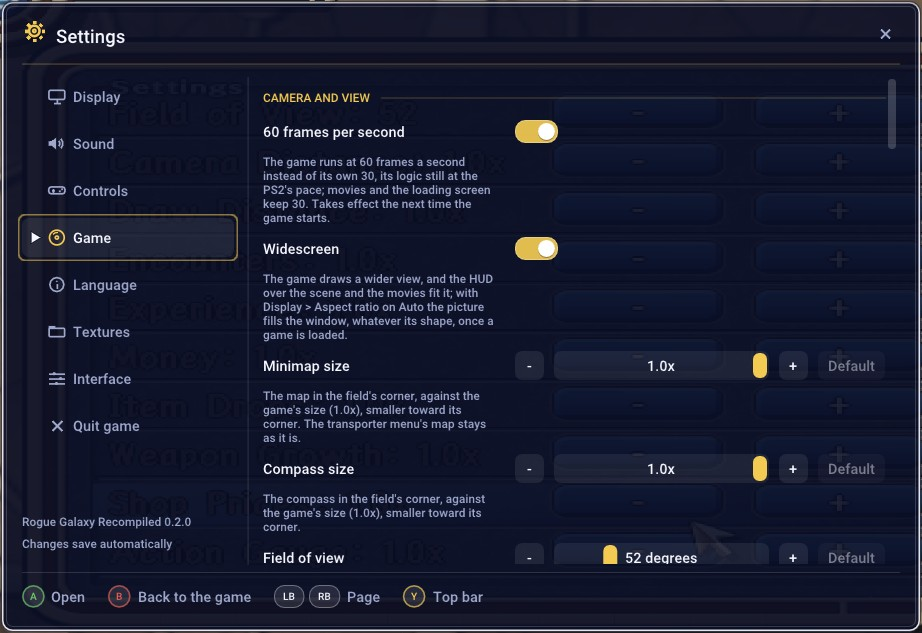
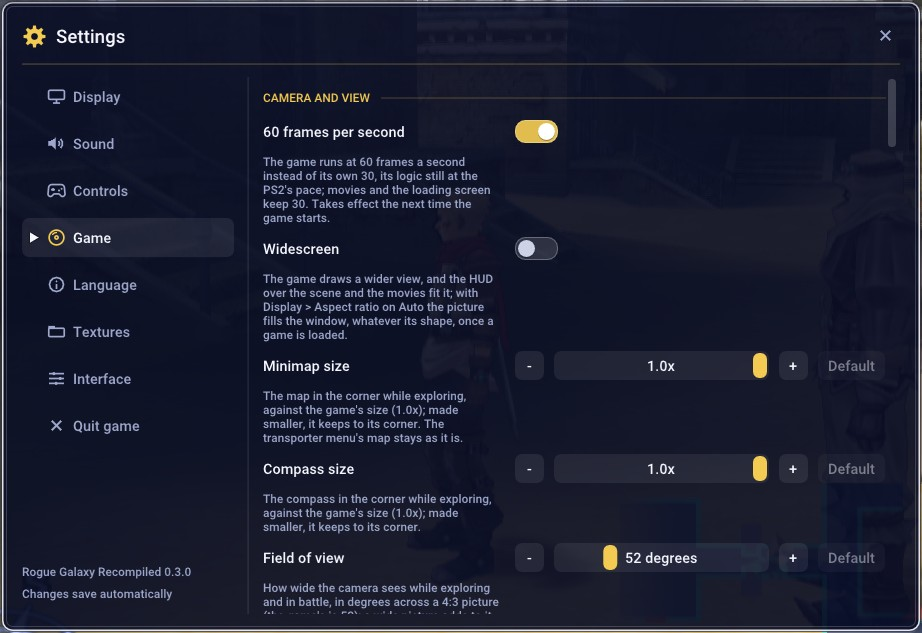
Version 0.3.0: changelog, docs, what the Director's Cut options change
CMakeLists.txt says 0.3.0, as do the issue forms' version examples. The
CHANGELOG's Unreleased part becomes 0.3.0 (pre-release), with how to
install, how to update from 0.2.0 and the known issues revised. Install
step 2 says to extract to C:\, since the zip holds the RogueGalaxy folder.
The Director's Cut entry is one paragraph: release_notes.py flattened its
nested list.

docs/DIRECTORS-CUT.md says what each of the three Director's Cut options
changes, in words and a few examples, without enemy-by-enemy tables; the
OPTIONS.md rows point to it. INSTALL.md's Director's Cut paragraph goes
back under the undub, whose Install-Undub.bat reads it (a merge had put it
under the European texts). README, STATUS.md, DISC.md and the docs index
name 0.3.0 and the new page. menu-game.jpg is retaken from the 0.3.0 build,
with #74's icons.

diff --git a/docs/DIRECTORS-CUT.md b/docs/DIRECTORS-CUT.md
@@ -1,0 +1,118 @@
+# The Japanese Director's Cut
+
+Rogue Galaxy came out again in Japan as a Director's Cut (SCPS-17013),
+which changed the battles: the enemies, their groups, their attacks and
+the allies' AI. The US release, which this project plays, has none of it.
+Three options bring it to the US release, each on its own, from your own
+Japanese disc:
+
+| Option | What it turns on |
+|---|---|
+| Director's Cut balance | The battles' numbers: [below](#balance) |
+| Director's Cut enemy behavior | The enemies' attacks and AI: [below](#enemy-behavior) |
+| Director's Cut party AI | The allies' AI: [below](#party-ai) |
+
+They are in F1 > Settings > Game, under Battles and rewards, off by
+default, and take effect at the next start. Each needs `Install-Undub.bat`
+to have read your image of the Director's Cut
+([INSTALL.md](INSTALL.md#undub-optional)); until then the menu greys them
+out.
+
+Where you notice it: early on, the balance shows mostly as more money and a
+few smaller groups. The weaker enemies come at the Rosencaster Prison, and
+the stronger ones are the optional Area Masters.
+
+## Balance
+
+**Smaller groups.** 85 of the game's 374 groups of enemies come smaller,
+from Rosa to the extra areas; none comes bigger. The Cactulus group in Rosa
+is 2 to 3 instead of 4 to 5, and many groups of 3 to 5 become 3 to 4.
+
+**More money.** 75 enemies leave 1.2 to 1.9 times the money, about
+1.5 times in the middle. Most of it is in the first planets: Rosa's first
+enemies give nearly twice as much (the Baphu 38 to 48 instead of 20 to 25),
+Juraika's 1.7 to 1.8 times, the Rosencaster Prison's and the Starship
+Factory's 1.5 to 1.7 times. Experience stays the same.
+
+**Weaker enemies.** The 19 kinds of enemy in the Rosencaster Prison and the
+Starship Factory, on Zerard: a sixth to a fifth less health, an eighth less
+attack and a tenth less defense. They take about a quarter fewer hits and
+hurt about a quarter less (a Roller has 750 health instead of 900). Three
+story fights have less health, attack and defense too: the Giants in
+chapter 1, the Attack Walker in chapter 5 and Gale in chapter 6, though
+Gale resists status effects and most elements more. So do two Mimics.
+
+**Stronger Area Masters.** The 10 Area Masters, the optional level 99
+bosses, all have more defense, and some more health and attack. The
+hardest change is the Dark Messiah's: 22,000 health instead of 15,000, and
+it takes about 2.6 times the hits and hits about 2.8 times harder.
+
+**Knockdowns.** Bosses and boss parts are never knocked down by ordinary
+hits; in the US release 47 of the 109 could be. The Burning Strike's last
+hit and a few abilities take another path and still can, as on the
+Japanese disc. Beyond that, 68 other enemies, most of the big ones (the
+Gigants, the Hill Giant, the Red Horn, the Mimics), are harder to knock
+down.
+
+**Status effects.** A few story bosses resist poison, paralysis and the
+like more, or entirely, and three boss attacks no longer poison or
+paralyze.
+
+**Smaller changes.** A few enemies drop other items, or drop theirs more
+often, and a few are harder to stun.
+
+**What stays.** The damage formula, experience, the party's levels and
+numbers, and the weapons and items themselves are the same in both
+releases. Enemy names stay as your text has them: the balance works with
+the [European texts](INSTALL.md#european-texts-optional) too.
+
+## Enemy behavior
+
+**Their attacks.** The Director's Cut changed the files of 76 kinds of
+enemy. In 56 of them it changed where and when their blows hit (how far a
+blow reaches, how long it can hit), and for some the kind of blow, which
+sets its strength and whether it breaks your guard; in the others, mostly
+the size of the body. The Alacan's two attacks hit softer, the
+Zombie's punches reach farther and hit for longer, and one of the Beast
+Seed's skill attacks hits softer and no longer goes through your guard.
+
+**Their AI.** About 70 kinds of enemy turn to face you before they attack
+when you are off to their side, each at its own speed, and stand a moment
+before trying again when a move of theirs fails. 22 kinds start their
+attacks from farther away, among them the Mish, the Sand Tortoise and the
+Cactulus. A few bosses' AI changed in smaller ways, among them the
+Individer's and the Drill Rig's.
+
+**Flying enemies.** The party's jump attacks keep homing in on a flying
+enemy knocked out of the air, and on two kinds of jellyfish.
+
+## Party AI
+
+An ally the game plays for you, low on health (under a quarter), sometimes
+falls back to the leader, steps back and guards for about two seconds:
+about three times in ten when its AI picks what to do. The same for all
+nine characters.
+
+## The European release
+
+The "PAL damage" players speak of is this rebalance: the European release
+has most of it (the bosses' rule, the enemies' health, attack and defense,
+the smaller groups, the boss attacks' effects and most of the enemies'
+attacks), but not the money or the harder knockdowns. Its damage formula is
+the US one, and none of it comes from its 50 Hz mode. These options take
+the Japanese disc's numbers.
+
+## Where it comes from
+
+No file of the Japanese disc is in this project. `Install-Undub.bat` reads
+your image: besides the voices and movies, it writes into
+`disc\JA\balance` the four tables the balance changes (the Japanese
+numbers, with your text's names) and the enemies' and allies' files the
+Director's Cut changed, as that disc has them. With the European texts,
+the install that comes second (`Install-Undub.bat` or
+`Install-European.bat`) makes the tables for their languages. How it is
+done: [DISC.md](DISC.md#the-japanese-disc-undub) and `src/dc_balance.h`.
+
+What has been played with the options on is the early game; most of the
+above comes from comparing the two discs' files. The comparison is with the
+US release; the first Japanese release, from 2005, was not compared.

diff --git a/CHANGELOG.md b/CHANGELOG.md
@@ -2,16 +2,42 @@
 
 ## Unreleased
 
+## 0.3.0 (pre-release)
+
+What the Japanese Director's Cut changed in battles, as options; the
+European texts (experimental); the mouse camera and new keyboard and mouse
+controls; and fixes. No game data is included.
+
+**Requires:** Windows 10/11 (64-bit), about 16 GB free, and your own image
+of Rogue Galaxy (USA, SCUS-97490).
+
+### Install
+
+1. Download **RogueGalaxy-0.3.0.zip** (not "Source code").
+2. Extract it to a short path, such as `C:\`: it holds the folder
+   `RogueGalaxy`.
+3. Run `Install.bat` and pick your disc image.
+4. Wait about 20 minutes on a fast PC (up to an hour on a slower one), then
+   play with `Rogue Galaxy.exe`.
+
+### Update from 0.2.0
+
+Run `Update.bat` in your game folder. This version changes how the game's
+code is translated, so the update takes about as long as the first
+install. Your saves (`disc\mc0`), settings, textures and the undub stay
+([INSTALL.md](docs/INSTALL.md#update); from 0.1.0,
+[by hand](docs/INSTALL.md#from-010)).
+
 ### New
 
 - What the Japanese Director's Cut changed in battles, which the US
   release did not get, as three options (Game, off by default, from the
-  next start):
-  - Director's Cut balance: smaller groups of enemies, more money from
-    many of them, the Rosencaster and Starship Factory enemies weaker, the
-    Area Masters stronger, bosses never knocked down;
-  - Director's Cut enemy behavior: the enemies' attacks and AI;
-  - Director's Cut party AI: allies low on health fall back and guard.
+  next start): Director's Cut balance (smaller groups of enemies, more
+  money from many of them, the Rosencaster and Starship Factory enemies
+  weaker, the Area Masters stronger, bosses never knocked down by
+  ordinary hits), Director's Cut enemy behavior (the enemies' attacks and
+  AI) and Director's Cut party AI (allies low on health fall back and
+  guard). What each one changes: [DIRECTORS-CUT.md](docs/DIRECTORS-CUT.md).
   All of it comes from your own Japanese Director's Cut disc:
   `Install-Undub.bat` reads it. With the undub already installed, the
   update reads it from the image it came from, if that is still where it
@@ -100,6 +126,28 @@
   vector unit did on the models is done on the PC and its graphics card.
   The models are still drawn through the emulation of the PS2's graphics
   chip.
+
+### Known issues
+
+- Only the USA version is supported: the Japanese and European discs add
+  to it (voices, texts, the Director's Cut's battles), never replace it.
+- It has not been played from start to finish; most of the testing covers
+  the early game.
+- From chapter 8 the game no longer hangs (above), but no testing has
+  reached chapter 8: the fix has not been seen in play.
+- The heaviest scenes can dip below 60 fps, more so at high internal
+  resolutions: Zerard's central plaza runs at about 51 fps at 4x (above).
+- A black screen after the boss at the end of Juraika was reported once
+  ([#17](https://github.com/victor-takai/rogue-galaxy-recomp/issues/17)) and
+  has not been seen again. If it happens to you, the log
+  (`build\last-run.log`) helps.
+- The European texts are experimental: a few lines stay English, and most
+  of the story has not been seen in them.
+- The Director's Cut options have been played only in the early game.
+- In widescreen, menus and text are stretched.
+- The Steam Deck, through Proton, is prepared but untested.
+- An antivirus may block the compiler during the install: restore it and
+  run `Install.bat` again.
 
 ## 0.2.0 (pre-release)
 

diff --git a/docs/STATUS.md b/docs/STATUS.md
@@ -12,7 +12,7 @@ heaviest field scene measured, a boss gate, holds 50 to 60, limited by the
 VU1 programs.
 Known gaps: a rare hang after the Story loading screen (below; possibly
 the checkpoint unwind that patch 0010 fixed, not confirmed). Each release
-(0.2.0 the latest) is the source with an installer that builds the game
+(0.3.0 the latest) is the source with an installer that builds the game
 from the player's disc (`Install.bat`; [`CHANGELOG.md`](../CHANGELOG.md)).
 
 | Phase | Goal | State |
@@ -24,14 +24,20 @@ from the player's disc (`Install.bat`; [`CHANGELOG.md`](../CHANGELOG.md)).
 | 4 | Field, battle, movies, sound | done |
 | 5 | Performance, widescreen, 60 fps, launcher | 60 fps mode by default (50-60 in the heaviest scenes), launcher, in-game menu, widescreen option, installer (0.1.0), `Update.bat` (0.2.0) |
 
-## Where things stand (2026-11-03)
+## Where things stand (2026-11-12)
 
 - The whole game plays: field, battles, movies, sound. The 60 fps mode is
   on by default (Game > 60 frames per second); widescreen up to 32:9 and
   up to 8x internal resolution are menu options ([OPTIONS.md](OPTIONS.md)).
-- Release 0.2.0 is out. Since 0.1.0 (`Install.bat`), it brought, in
-  [`CHANGELOG.md`](../CHANGELOG.md): `Update.bat`, the undub from the
-  player's own Japanese disc (`Install-Undub.bat`, F1 > Settings > Language; see
+- Release 0.3.0 is out. Since 0.2.0, it brought, in
+  [`CHANGELOG.md`](../CHANGELOG.md): what the Japanese Director's Cut
+  changed in battles, as three options read from the player's own
+  Japanese disc ([DIRECTORS-CUT.md](DIRECTORS-CUT.md)), the European texts
+  (experimental, `Install-European.bat`), the mouse camera and new
+  keyboard and mouse controls, and a fix for the hang from chapter 8 on
+  (not yet seen in play).
+  0.2.0 had brought `Update.bat`, the undub from the player's own Japanese
+  disc (`Install-Undub.bat`, F1 > Settings > Language; see
   [dialogue.md](dialogue.md)), texture packs
   ([TEXTURE_PACKS.md](TEXTURE_PACKS.md)), the Xbox buttons in the text,
   the inventory options and the F1 menu with only a controller.
@@ -50,9 +56,9 @@ from the player's disc (`Install.bat`; [`CHANGELOG.md`](../CHANGELOG.md)).
     [BUILDING.md](BUILDING.md#steam-deck-untested)).
   - The European release's languages, read from the player's own disc of
     that version ([#42](https://github.com/victor-takai/rogue-galaxy-recomp/pull/42)):
-    they work, marked experimental, and are not yet in a release; played
-    in Spanish and tested in all four up to the first scenes, the rest of
-    the story still to be seen in them.
+    in 0.3.0, marked experimental; played in Spanish and tested in all
+    four up to the first scenes, the rest of the story still to be seen in
+    them.
 - Taken out at the user's request: the menus in 4:3 on a wide screen
   (2026-10-28, never committed), Save anywhere and Sharp letters
   (2026-10-30, 3b09797; the sources are at b55f0ea).

diff --git a/docs/OPTIONS.md b/docs/OPTIONS.md
@@ -111,9 +111,9 @@ The numbers are against the game's own, 1.0x.
 | Weapon growth | 1.0x to 10.0x: each battle fills a weapon's gauge (15 to full), then its attributes, by 1 point, or more. |
 | Shop prices | 0.1x to 2.0x. |
 | Action gauge speed | 0.25x to 4.0x. |
-| Director's Cut balance | Off by default. Battles with the numbers of the Japanese Director's Cut (SCPS-17013): 85 of the 374 enemy groups are smaller (the Cactulus group in Rosa comes 2 to 3 instead of 4 to 5), 75 enemies leave about 1.5 times the money, some enemies are weaker and the 10 Area Masters stronger, bigger enemies are harder to knock down and bosses never are. Experience, the party, the weapons and the damage formula stay the same. Works with the European texts too. Needs your Japanese disc: run `Install-Undub.bat` (it serves all three Director's Cut options). Takes effect at the next start. |
-| Director's Cut enemy behavior | Off by default. The enemies' attacks and AI of the same release: enemies face you before they attack, some attack from farther away, and the party's jump attacks home in on flying enemies knocked out of the air. Works with or without the balance. Needs the same disc. Takes effect at the next start. |
-| Director's Cut party AI | Off by default. The allies' AI of the same release: an ally low on health sometimes falls back to the leader and guards. Needs the same disc. Takes effect at the next start. |
+| Director's Cut balance | Off by default. Turns on the battle balance of the Japanese Director's Cut (SCPS-17013); what it changes: [DIRECTORS-CUT.md](DIRECTORS-CUT.md#balance). Needs your Japanese disc: run `Install-Undub.bat` (it serves all three Director's Cut options). Takes effect at the next start. |
+| Director's Cut enemy behavior | Off by default. Turns on the enemies' attacks and AI of the same release ([DIRECTORS-CUT.md](DIRECTORS-CUT.md#enemy-behavior)), with or without the balance. Needs the same disc. Takes effect at the next start. |
+| Director's Cut party AI | Off by default. Turns on the allies' AI of the same release ([DIRECTORS-CUT.md](DIRECTORS-CUT.md#party-ai)). Needs the same disc. Takes effect at the next start. |
 
 **Rendering**
 

diff --git a/docs/DISC.md b/docs/DISC.md
@@ -42,11 +42,12 @@ Japanese numbers and the US strings, and `tables.txt`, which names the US
 table each replaces; and the 76 enemy files (`chara\mob\*.chr`) and 98 AI
 scripts (`chara\spt\*.stb`) that release changed, as they are, checked
 against `balance_files` and packed into `files.dat` (about 20 MiB) with
-their list, `files.idx` ([OPTIONS.md](OPTIONS.md#game-options), "Director's
-Cut balance", "enemy behavior" and "party AI"; `src/dc_balance.h`). Run again, it copies only the voices and
-movies not already there. `setup.py install` (so `Update.bat` too) makes the
-balance's files for an undub installed without them, from the image
-`disc/JA/manifest.json` names, when it is still there.
+their list, `files.idx` (what each part changes:
+[DIRECTORS-CUT.md](DIRECTORS-CUT.md); `src/dc_balance.h`). Run again, it
+copies only the voices and movies not already there. `setup.py install`
+(so `Update.bat` too) makes the balance's files for an undub installed
+without them, from the image `disc/JA/manifest.json` names, when it is
+still there.
 
 A European text in `disc/EU` has tables of its own (the US numbers with its
 names), so the same step also writes, for each language there, the Japanese

diff --git a/docs/INSTALL.md b/docs/INSTALL.md
@@ -51,6 +51,11 @@ Director's Cut (SCPS-17013).
 The text stays in its language: English, or one of the
 [European texts](#european-texts-optional) with the Japanese voices.
 
+`Install-Undub.bat` also reads what the Director's Cut changed in
+battles, which the US release did not get. Three options in
+F1 > Settings > Game turn it on, each part on its own
+([DIRECTORS-CUT.md](DIRECTORS-CUT.md)). The voices can stay English.
+
 ## European texts (optional)
 
 The text in French, German, Spanish or Italian. You need your own image of
@@ -71,13 +76,6 @@ something looks wrong (text, a menu, the picture), open an
 [issue](https://github.com/victor-takai/rogue-galaxy-recomp/issues) with a
 screenshot and the game's log. Picking English again brings the game back as
 it was.
-
-The same step reads what the Director's Cut changed in battles, which the
-US release did not get: smaller groups of enemies, more money, some enemies
-weaker and others stronger, and that release's enemy attacks and AI. Three
-options in F1 > Settings > Game turn it on, each part on its own:
-[Director's Cut balance, enemy behavior and party AI](OPTIONS.md#game-options).
-The voices can stay English.
 
 ## Update
 

diff --git a/README.md b/README.md
@@ -17,14 +17,14 @@ image; nothing of the game is distributed.
 - In-game menu (F1)
 - [New game settings](docs/OPTIONS.md)
 - Japanese voices and movies (undub)
-- The Japanese Director's Cut's battle balance, enemy behavior and party
-  AI, as options
+- [The Japanese Director's Cut's](docs/DIRECTORS-CUT.md) battle balance,
+  enemy behavior and party AI, as options
 - Text in French, German, Spanish or Italian (experimental)
 - [Texture packs](docs/TEXTURE_PACKS.md), PCSX2's included
 
 ## What to expect
 
-This is an early pre-release (0.2.0). The whole game plays, but:
+This is an early pre-release (0.3.0). The whole game plays, but:
 
 - **It has not been played from start to finish.** Most testing covers the
   early game; later chapters, the Factory and Insectron are unchecked.

diff --git a/docs/README.md b/docs/README.md
@@ -11,6 +11,8 @@ What each page here is for, by who it is for. New to the project? Start with
   updating, saves from PCSX2 and uninstalling.
 - [OPTIONS.md](OPTIONS.md): the F1 menu and every game option, with where to
   find each one.
+- [DIRECTORS-CUT.md](DIRECTORS-CUT.md): what the Japanese Director's Cut
+  changed in battles, which three options bring to the US release.
 - [DISC.md](DISC.md): which disc images work, and how they are checked and
   extracted.
 - [TEXTURE_PACKS.md](TEXTURE_PACKS.md): putting texture packs in, and making
